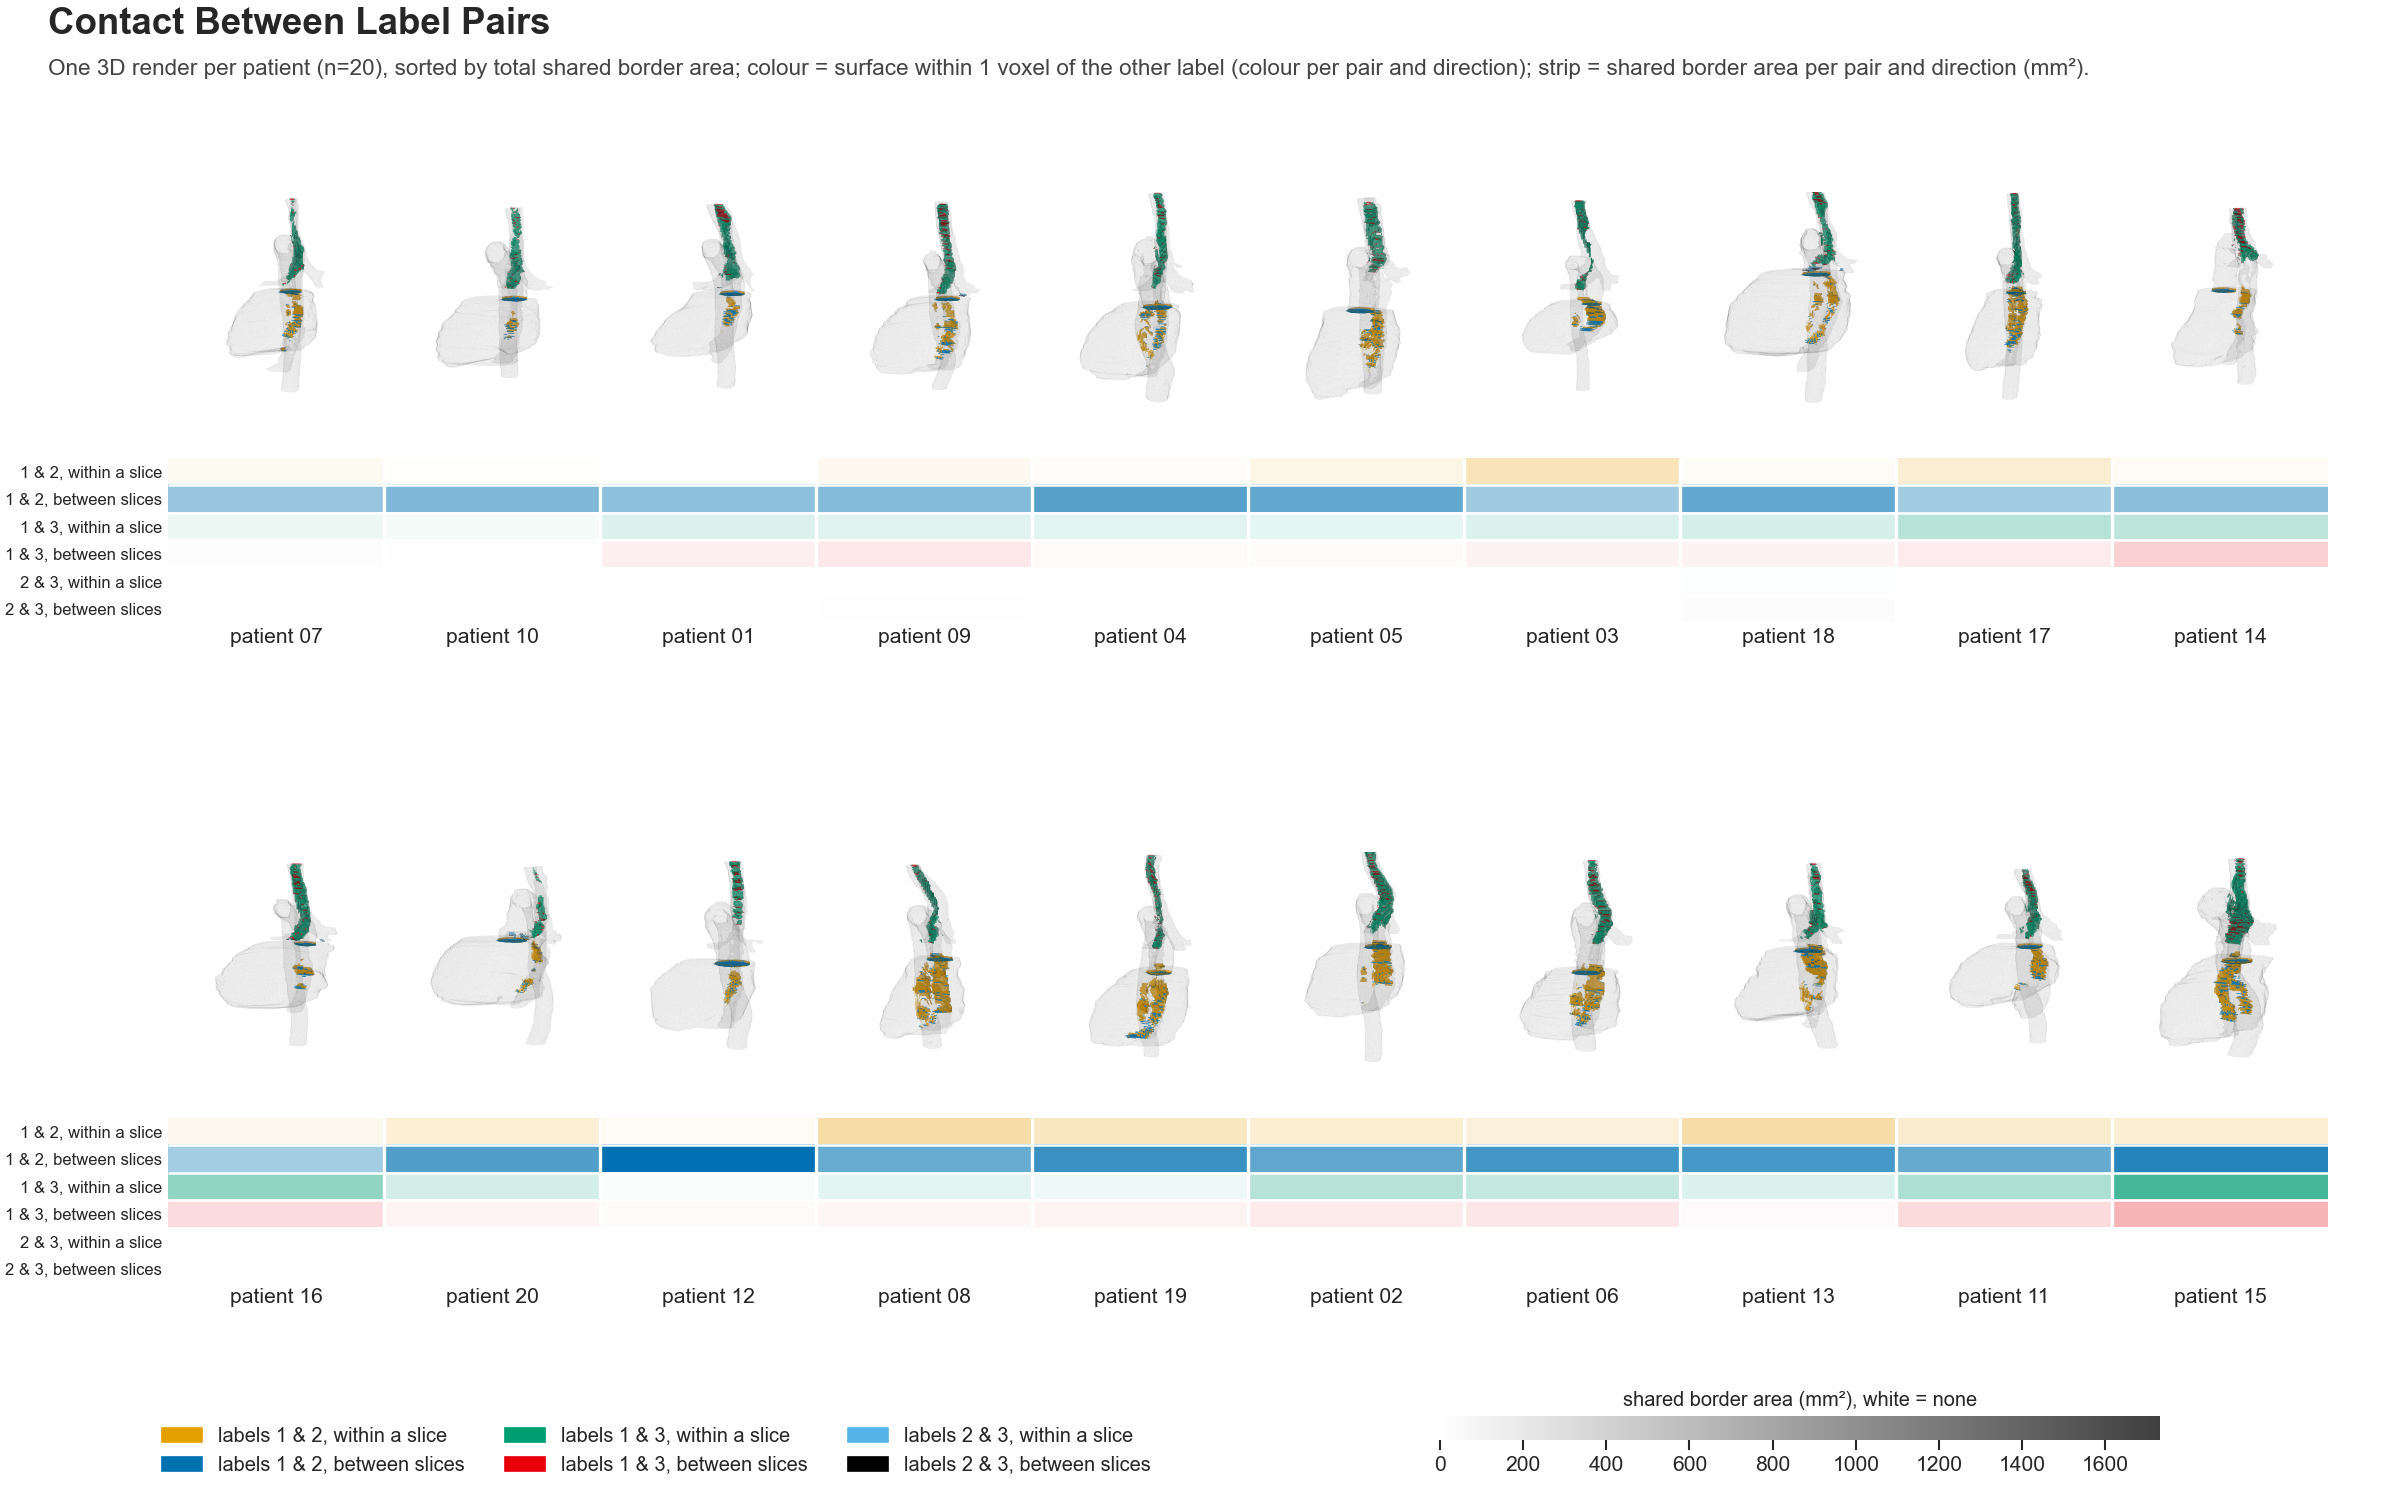
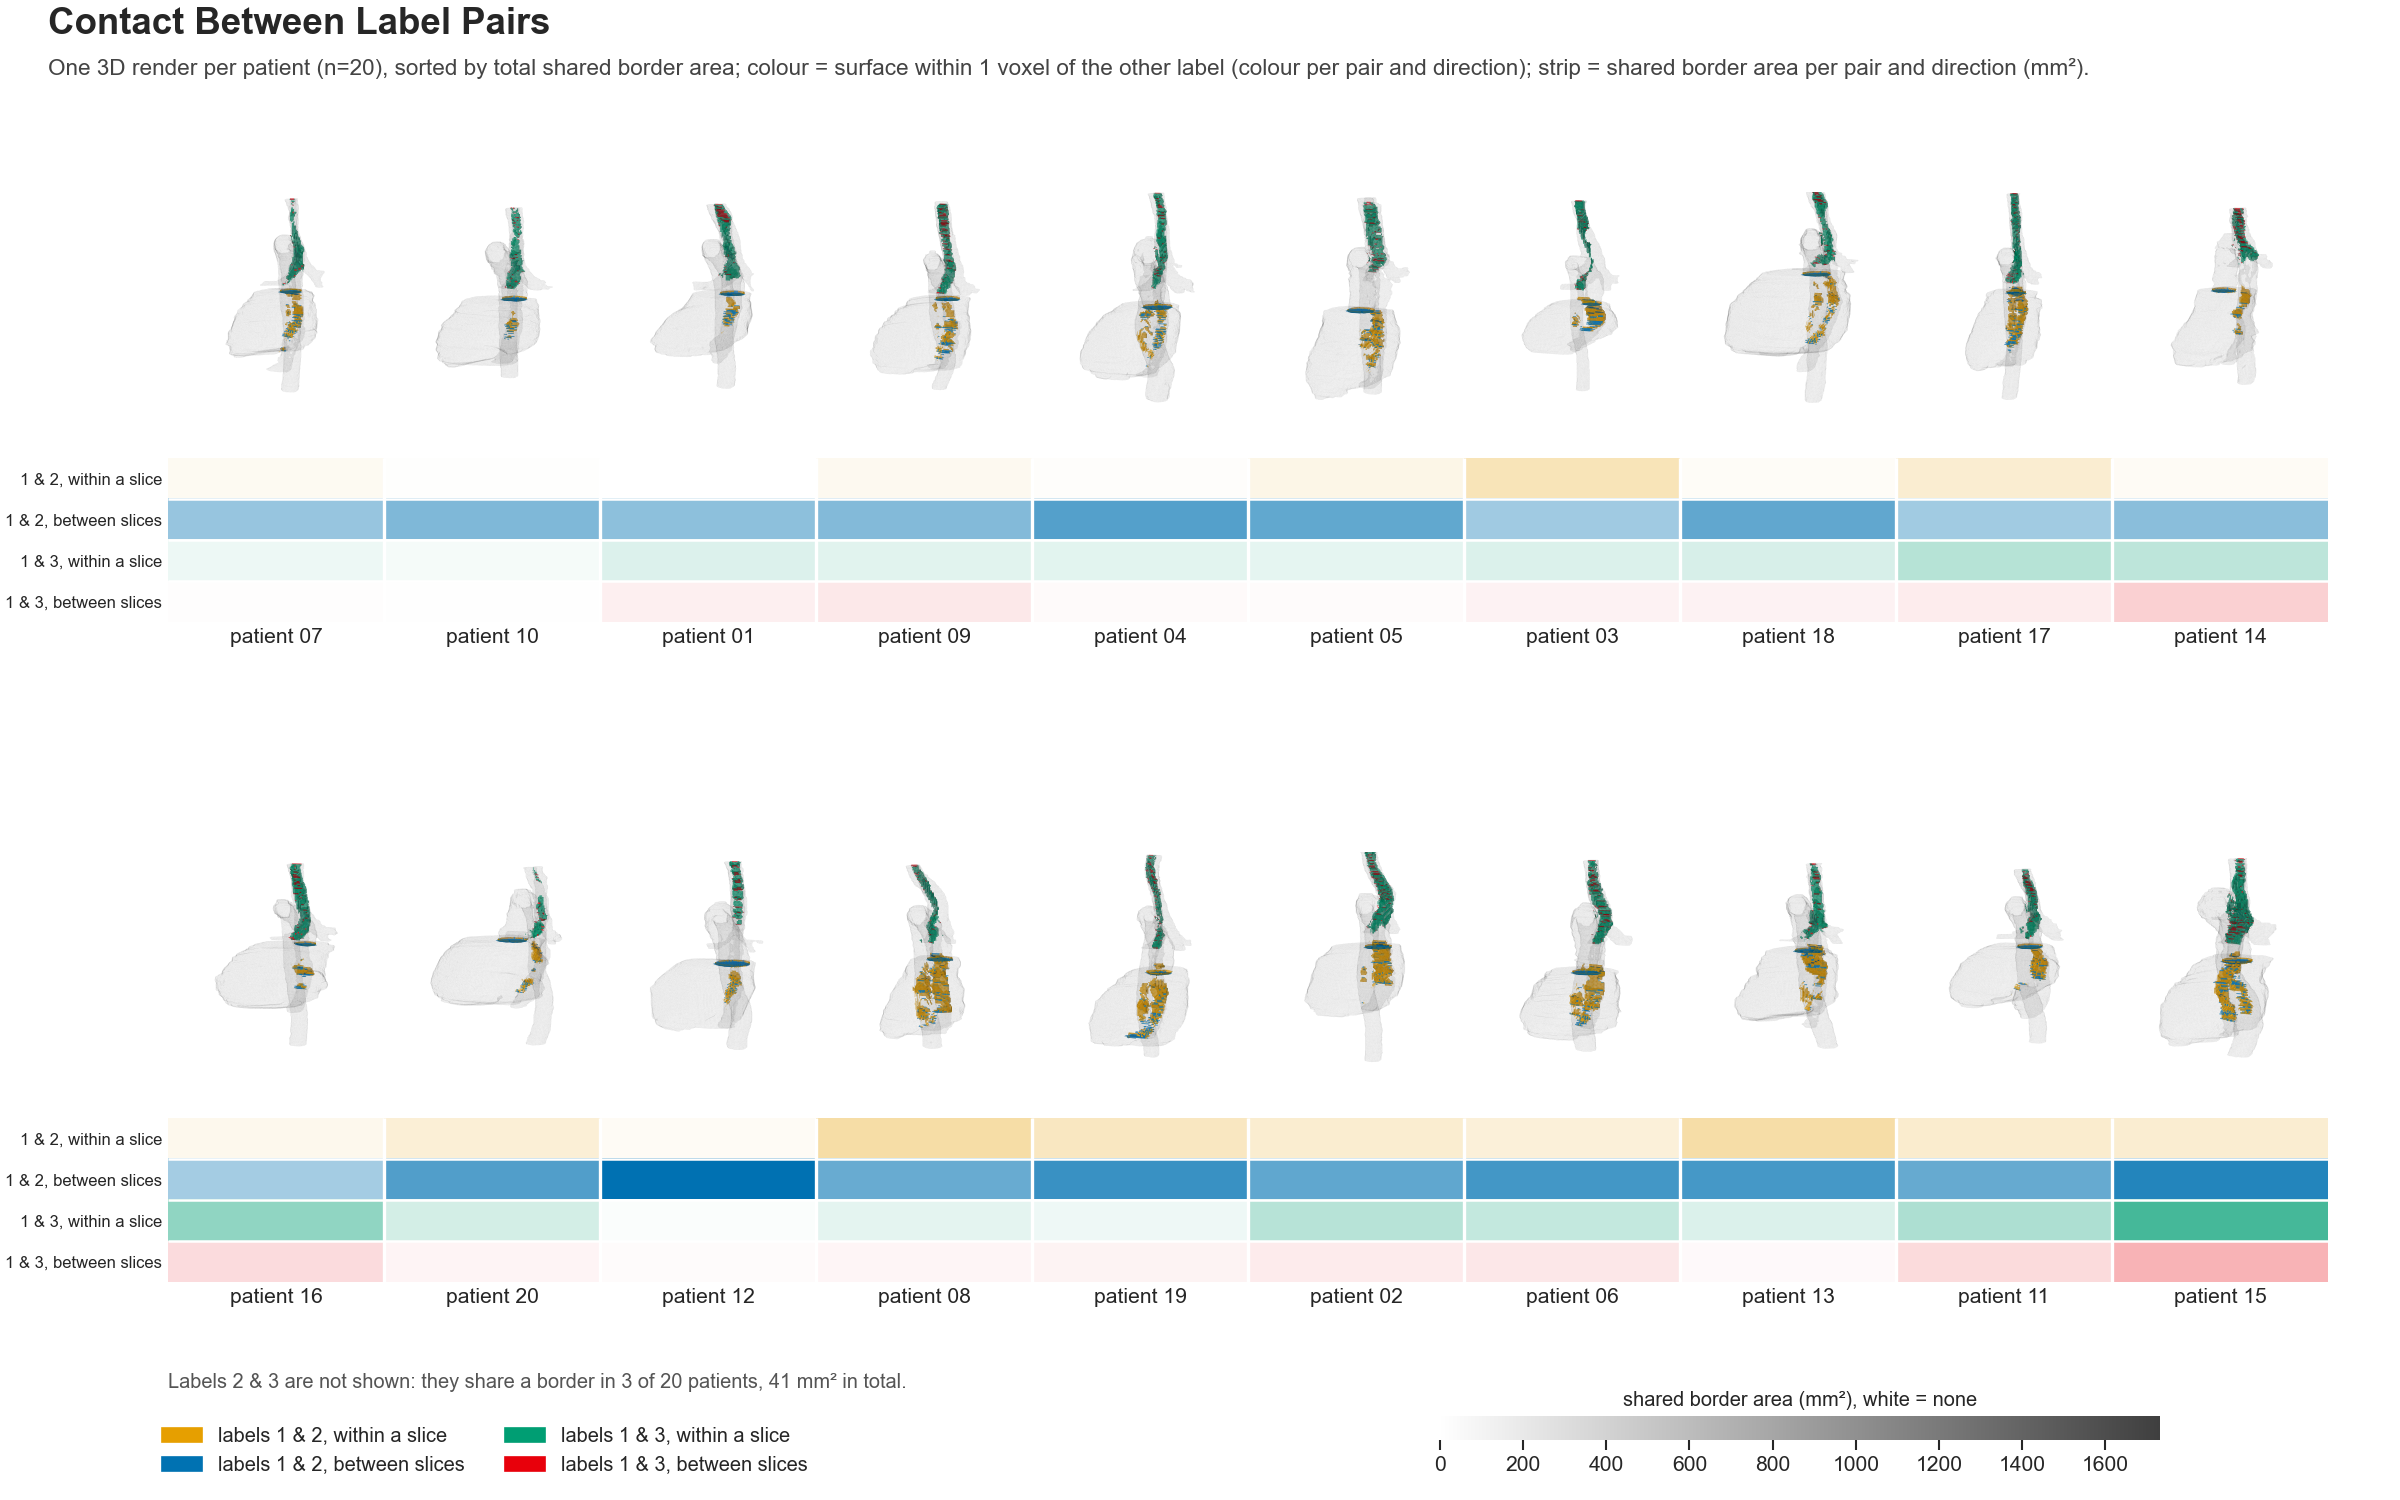
Omit labels 2 and 3 from contact figure with a note

Changed region(s): [[0.0, 0.736, 0.9688, 0.8587], [0.0, 0.3067, 0.9688, 0.4293], [0.3438, 0.9507, 0.4688, 0.9813]]

diff --git a/dataset_analysis/profile_figures/f13_label_pairs.py b/dataset_analysis/profile_figures/f13_label_pairs.py
@@ -40,7 +40,8 @@ sys.path.insert(0, str(Path(__file__).resolve().parents[1]))
 from profile_figures.common import LABEL_COLORS, apply_ticks_style, build_arg_parser, header, out_subdir  # noqa: E402
 
 LABELS = list(LABEL_COLORS)
-PAIRS = [(1, 2), (1, 3), (2, 3)]
+PAIRS = [(1, 2), (1, 3)]
+OMITTED_PAIR = (2, 3)  # shares almost no border; reported in a note instead of drawn
 MESH_MM = 2.0
 HALF_WIDTH_MM, HALF_HEIGHT_MM = 90, 170  # shared 3D box for every patient
 DIRECTIONS = ("within a slice", "between slices")
@@ -52,8 +53,6 @@ CONTACT_COLORS = {
     ((1, 2), "within a slice"): "#E69F00",
     ((1, 3), "within a slice"): "#009E73",
     ((1, 3), "between slices"): "#E8000B",
-    ((2, 3), "within a slice"): "#56B4E9",
-    ((2, 3), "between slices"): "#000000",
 }
 FACING_UP = 0.7  # |normal z| above this counts a surface patch as facing the neighbouring slice
 SURFACE_RGBA = (0.6, 0.6, 0.6, 0.06)  # faint grey so only the contact patches stand out
@@ -194,7 +193,17 @@ def main():
         for p in PAIRS
         for d in DIRECTIONS
     ]
-    fig.legend(handles=handles, loc="lower left", bbox_to_anchor=(0.06, 0.005), ncol=3, frameon=False, fontsize=12)
+    fig.legend(handles=handles, loc="lower left", bbox_to_anchor=(0.06, 0.005), ncol=2, frameon=False, fontsize=12)
+    omitted = pairs[(pairs["label_a"] == OMITTED_PAIR[0]) & (pairs["label_b"] == OMITTED_PAIR[1])]
+    touching = omitted[omitted["shared_face_area_mm2"] > 0]
+    fig.text(
+        0.07,
+        0.075,
+        f"Labels {OMITTED_PAIR[0]} & {OMITTED_PAIR[1]} are not shown: they share a border in {len(touching)} of "
+        f"{len(omitted)} patients, {touching['shared_face_area_mm2'].sum():.0f} mm² in total.",
+        fontsize=12,
+        color="#555555",
+    )
     header(
         fig,
         "Contact Between Label Pairs",
